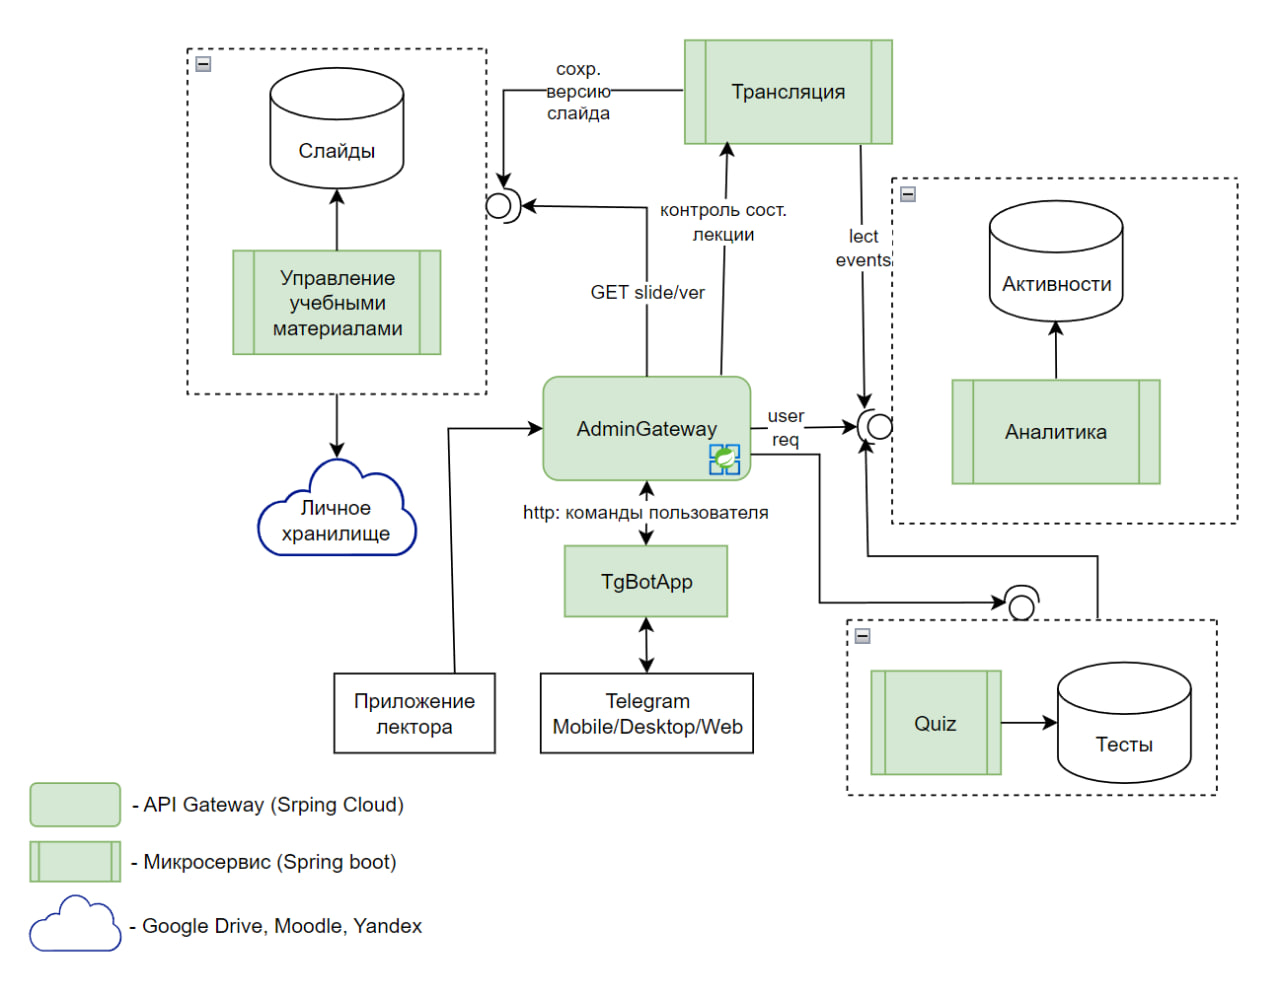
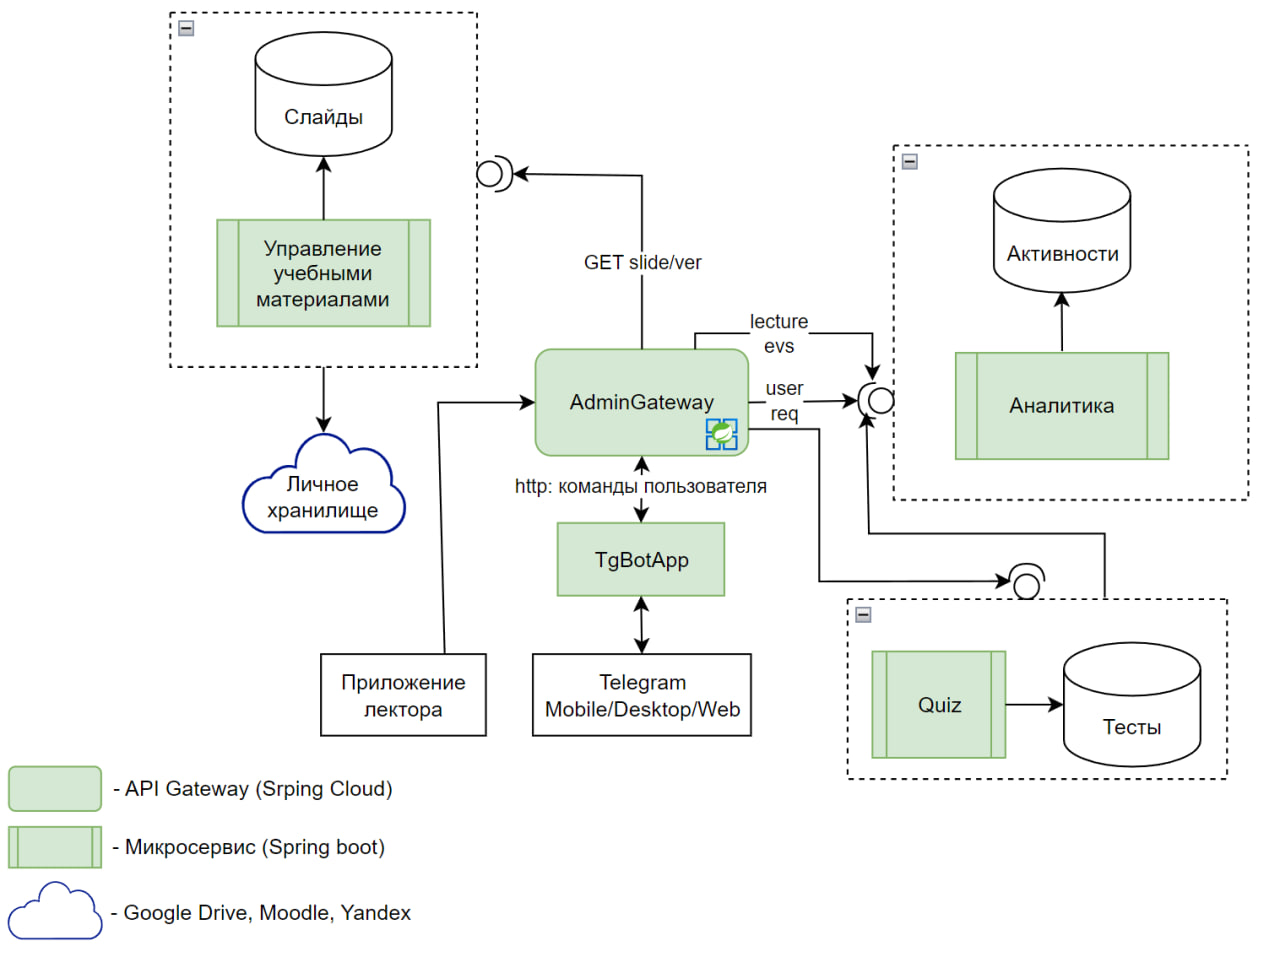
убран сервис трансляции

diff --git a/Services_API.md b/Services_API.md
@@ -1,11 +1,11 @@
 # Описание микросервисов системы «Цифровой ассистент лектора»
 
-Архитектура состоит из 4 основных микросервисов, взаимодействующих через API Gateway. Три сервиса имеют изолированные базы данных (Database-per-service), один (Трансляция) выступает в роли оркестратора.
+Архитектура состоит из 3 основных микросервисов, взаимодействующих через API Gateway (`AdminGateway`). Все три сервиса имеют изолированные базы данных (Database-per-service). Маршрутизация запросов к материалам и потоков событий лекции осуществляется напрямую через Gateway без использования промежуточного оркестратора трансляции.
 
 ---
 
 ## 1. Сервис управления учебными материалами (Content Management Service)
-*Отвечает за хранение, выдачу и версионирование учебного контента. Инкапсулирует БД «Слайды»*.
+*Отвечает за хранение, выдачу и версионирование учебного контента. Инкапсулирует БД «Слайды». Напрямую обрабатывает запросы на получение актуальных версий слайдов от Gateway.*
 
 ### Модель данных
 * **Slide (Слайд):** * `id` (UUID) — уникальный идентификатор слайда.
@@ -28,16 +28,16 @@
   * `version` (Integer), `uploaded_at` (DateTime).
 
 ### API (Основные функции)
-* **Получение текущей версии слайда:** `GET /slides/{slide_id}` — Возвращает текущую версию (поле content) .
-* **Загрузка последовательности слайдов:** `POST /slide-sequences` — Тело: `{ "name": "...", "slides": [...] }` .
-* **Запись изменений слайда:** `PUT /slides/{slide_id}` — Создает новую версию и обновляет текущую .
-* **Версионирование слайдов:** `GET /slides/{slide_id}/versions` — Возвращает список всех версий слайда с их содержимым и историей изменений .
-* **Интеграция с облачными хранилищами:** `POST /slides/{slide_id}/upload-to-cloud` — Загружает версию в облако и сохраняет ссылку .
+* **Получение текущей версии слайда:** `GET /slides/{slide_id}` — Возвращает текущую версию (поле content). Проксируется через AdminGateway (`GET slide/ver`).
+* **Загрузка последовательности слайдов:** `POST /slide-sequences` — Тело: `{ "name": "...", "slides": [...] }`.
+* **Запись изменений слайда:** `PUT /slides/{slide_id}` — Создает новую версию и обновляет текущую (используется приложением лектора для сохранения отметок).
+* **Версионирование слайдов:** `GET /slides/{slide_id}/versions` — Возвращает список всех версий слайда с их содержимым и историей изменений.
+* **Интеграция с облачными хранилищами:** `POST /slides/{slide_id}/upload-to-cloud` — Загружает версию в облако и сохраняет ссылку.
 
 ---
 
 ## 2. Сервис тестирования (Quiz Service)
-*Отвечает за опросы, тесты и сбор обратной связи от слушателей. Инкапсулирует БД «Тесты»* .
+*Отвечает за опросы, тесты и сбор обратной связи от слушателей. Инкапсулирует БД «Тесты».*
 
 ### Модель данных
 * **Quiz (Тест/Опрос):** `id` (UUID), `lecture_id` (UUID), `title` (String), `created_at` (DateTime).
@@ -54,31 +54,19 @@
 ---
 
 ## 3. Сервис аналитики (Analytics Service)
-*Сбор телеметрии, логов и построение графиков активности. Инкапсулирует БД «Активности»*.
+*Сбор телеметрии, логов, событий лекции и построение графиков активности. Инкапсулирует БД «Активности».*
 
 ### Модель данных
 * **SlideRequest (Запрос слайда):** `id` (UUID), `slide_id` (UUID), `user_id` (UUID), `timestamp` (DateTime).
-* **ActivityLog (Лог активности):** `id` (UUID), `lecture_id` (UUID), `action_type` (String), `timestamp` (DateTime).
+* **ActivityLog (Лог активности):** `id` (UUID), `lecture_id` (UUID), `action_type` (String) (например: *start_lecture, slide_changed, end_lecture*), `timestamp` (DateTime).
 * **LectureSummary (Отчет):** `id` (UUID), `lecture_id` (UUID), `report_data` (JSON).
 
 ### API (Основные функции)
-* **Сбор данных (события):** `POST /analytics/events` — Принимает данные о старте лекции и запросах слайдов от сервиса трансляции .
-* **Обработка данных (Агрегация):** `GET /analytics/lectures/{lecture_id}/aggregations` — Анализирует количество запросов и выявляет проблемные слайды (много вопросов или нет запросов) .
+* **Сбор системных событий лекции:** `POST /analytics/events/lecture` — Принимает управляющие события (старт лекции, смена слайда, завершение) напрямую от приложения лектора через AdminGateway (`lecture evs`).
+* **Сбор пользовательских событий:** `POST /analytics/events/user` — Логирует запросы слайдов и активность слушателей через AdminGateway (`user req`).
+* **Обработка данных (Агрегация):** `GET /analytics/lectures/{lecture_id}/aggregations` — Анализирует количество запросов и выявляет проблемные слайды (много вопросов или нет запросов).
 * **Визуализация (Дашборд лектора):** `GET /analytics/lectures/{lecture_id}/dashboard` — Отдает данные для построения графиков активности слушателей в панели лектора.
 * **Генерация отчета:** `GET /analytics/lectures/{lecture_id}/report` — Формирует итоговый отчет с рекомендациями после лекции.
-
----
-
-## 4. Сервис трансляции (Broadcast Service)
-*Оркестратор и движок реального времени. **Stateless** (не имеет собственной БД).*
-
-### Модель данных (В оперативной памяти)
-* **LectureSession:** `lecture_id` (UUID), `current_slide_id` (UUID), `status` (String).
-
-### API (Основные функции)
-* **Старт трансляции:** `POST /broadcast/start` — Инициирует лекцию и отправляет событие о старте в Сервис аналитики.
-* **Демонстрация и изменение слайда:** `POST /broadcast/slides/{slide_id}/update` — Принимает отметки лектора и вызывает `PUT /slides/{slide_id}` в Сервисе учебных материалов для записи изменений.
-* **Завершение трансляции:** `POST /broadcast/end` — Фиксирует конец лекции, запускает сбор финальной аналитики и отправку отчетов.
 
 ---
 
@@ -86,6 +74,6 @@
 Поскольку в системе применяется паттерн Database-per-service (базы данных микросервисов физически изолированы друг от друга), использование классических внешних ключей (Foreign Keys) на уровне СУБД невозможно. Для обеспечения целостности данных применяется механизм "мягких связей" (Soft Links): микросервисы обмениваются уникальными идентификаторами (UUID) на уровне бизнес-логики.
 
 Для обеспечения целостности данных между изолированными микросервисами используются следующие логические связи по ID:
-* **Лекция (Lecture)** связана со **Слайдом (Slide)** через `lecture_id`.
+* **Лекция (Lecture)** связана со **Слайдом (Slide)** и событиями в **ActivityLog** через `lecture_id`.
 * **Слайд (Slide)** связан с **Запросом слайда (SlideRequest)**, **Оценкой слайда (SlideRating)** и **Вопросом к слайду (SlideQuestion)** через `slide_id`.
 * **Пользователь (User)** связан с **Запросом слайда (SlideRequest)**, **Оценкой слайда (SlideRating)** и **Вопросом к слайду (SlideQuestion)** через `user_id`.
